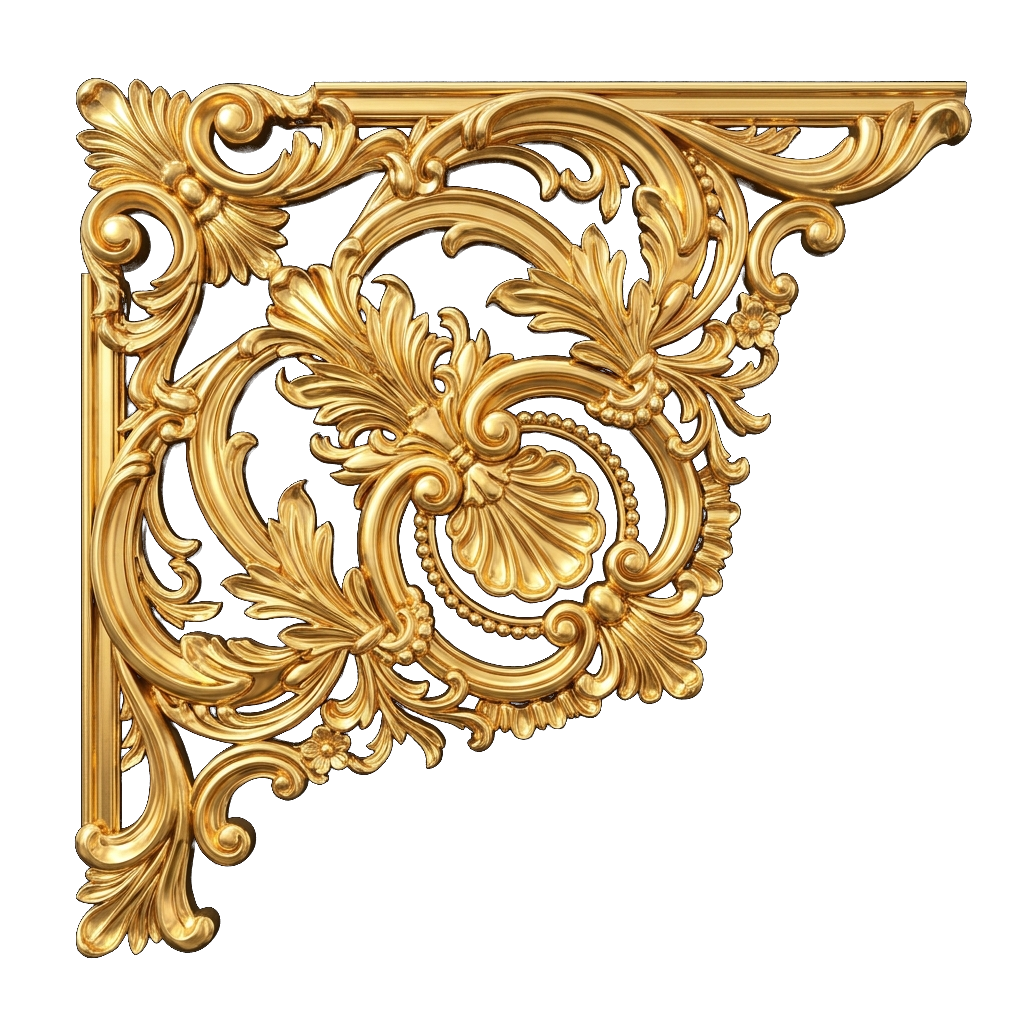
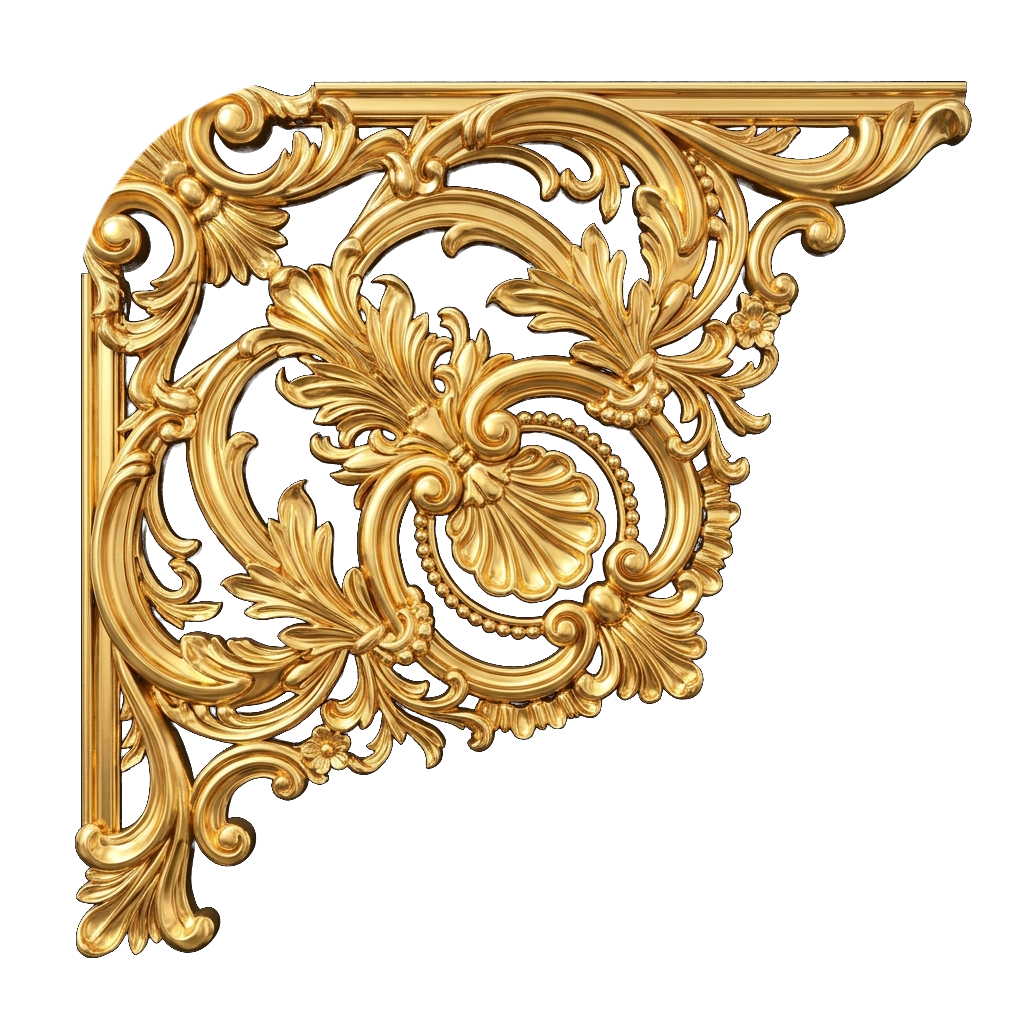
fix(undangan_6): enlarge corner ornaments and curve outer vertex to seamlessly align with rounded gold border

Changed region(s): [[0.0625, 0.0625, 0.25, 0.25]]

diff --git a/undangan_6/index.html b/undangan_6/index.html
@@ -57,7 +57,7 @@
             </div>
 
             <!-- Baroque Golden Corner Ornament (Left Door: Top-Left Spandrel) -->
-            <div class="absolute top-2.5 left-2.5 sm:top-3 sm:left-3 w-[78px] sm:w-[90px] pointer-events-none z-10">
+            <div class="absolute top-2.5 left-2.5 sm:top-3 sm:left-3 w-[92px] sm:w-[104px] pointer-events-none z-10">
               <img src="asset/img/ornamen/ukiran_sudut_gold.png" alt="Baroque Gold Corner Left" class="w-full h-auto drop-shadow-[0_4px_14px_rgba(0,0,0,0.7)] filter brightness-105" decoding="async">
             </div>
 
@@ -98,7 +98,7 @@
             </div>
 
             <!-- Baroque Golden Corner Ornament (Right Door: Top-Right Spandrel) -->
-            <div class="absolute top-2.5 right-2.5 sm:top-3 sm:right-3 w-[78px] sm:w-[90px] scale-x-[-1] pointer-events-none z-10">
+            <div class="absolute top-2.5 right-2.5 sm:top-3 sm:right-3 w-[92px] sm:w-[104px] scale-x-[-1] pointer-events-none z-10">
               <img src="asset/img/ornamen/ukiran_sudut_gold.png" alt="Baroque Gold Corner Right" class="w-full h-auto drop-shadow-[0_4px_14px_rgba(0,0,0,0.7)] filter brightness-105" decoding="async">
             </div>
 
